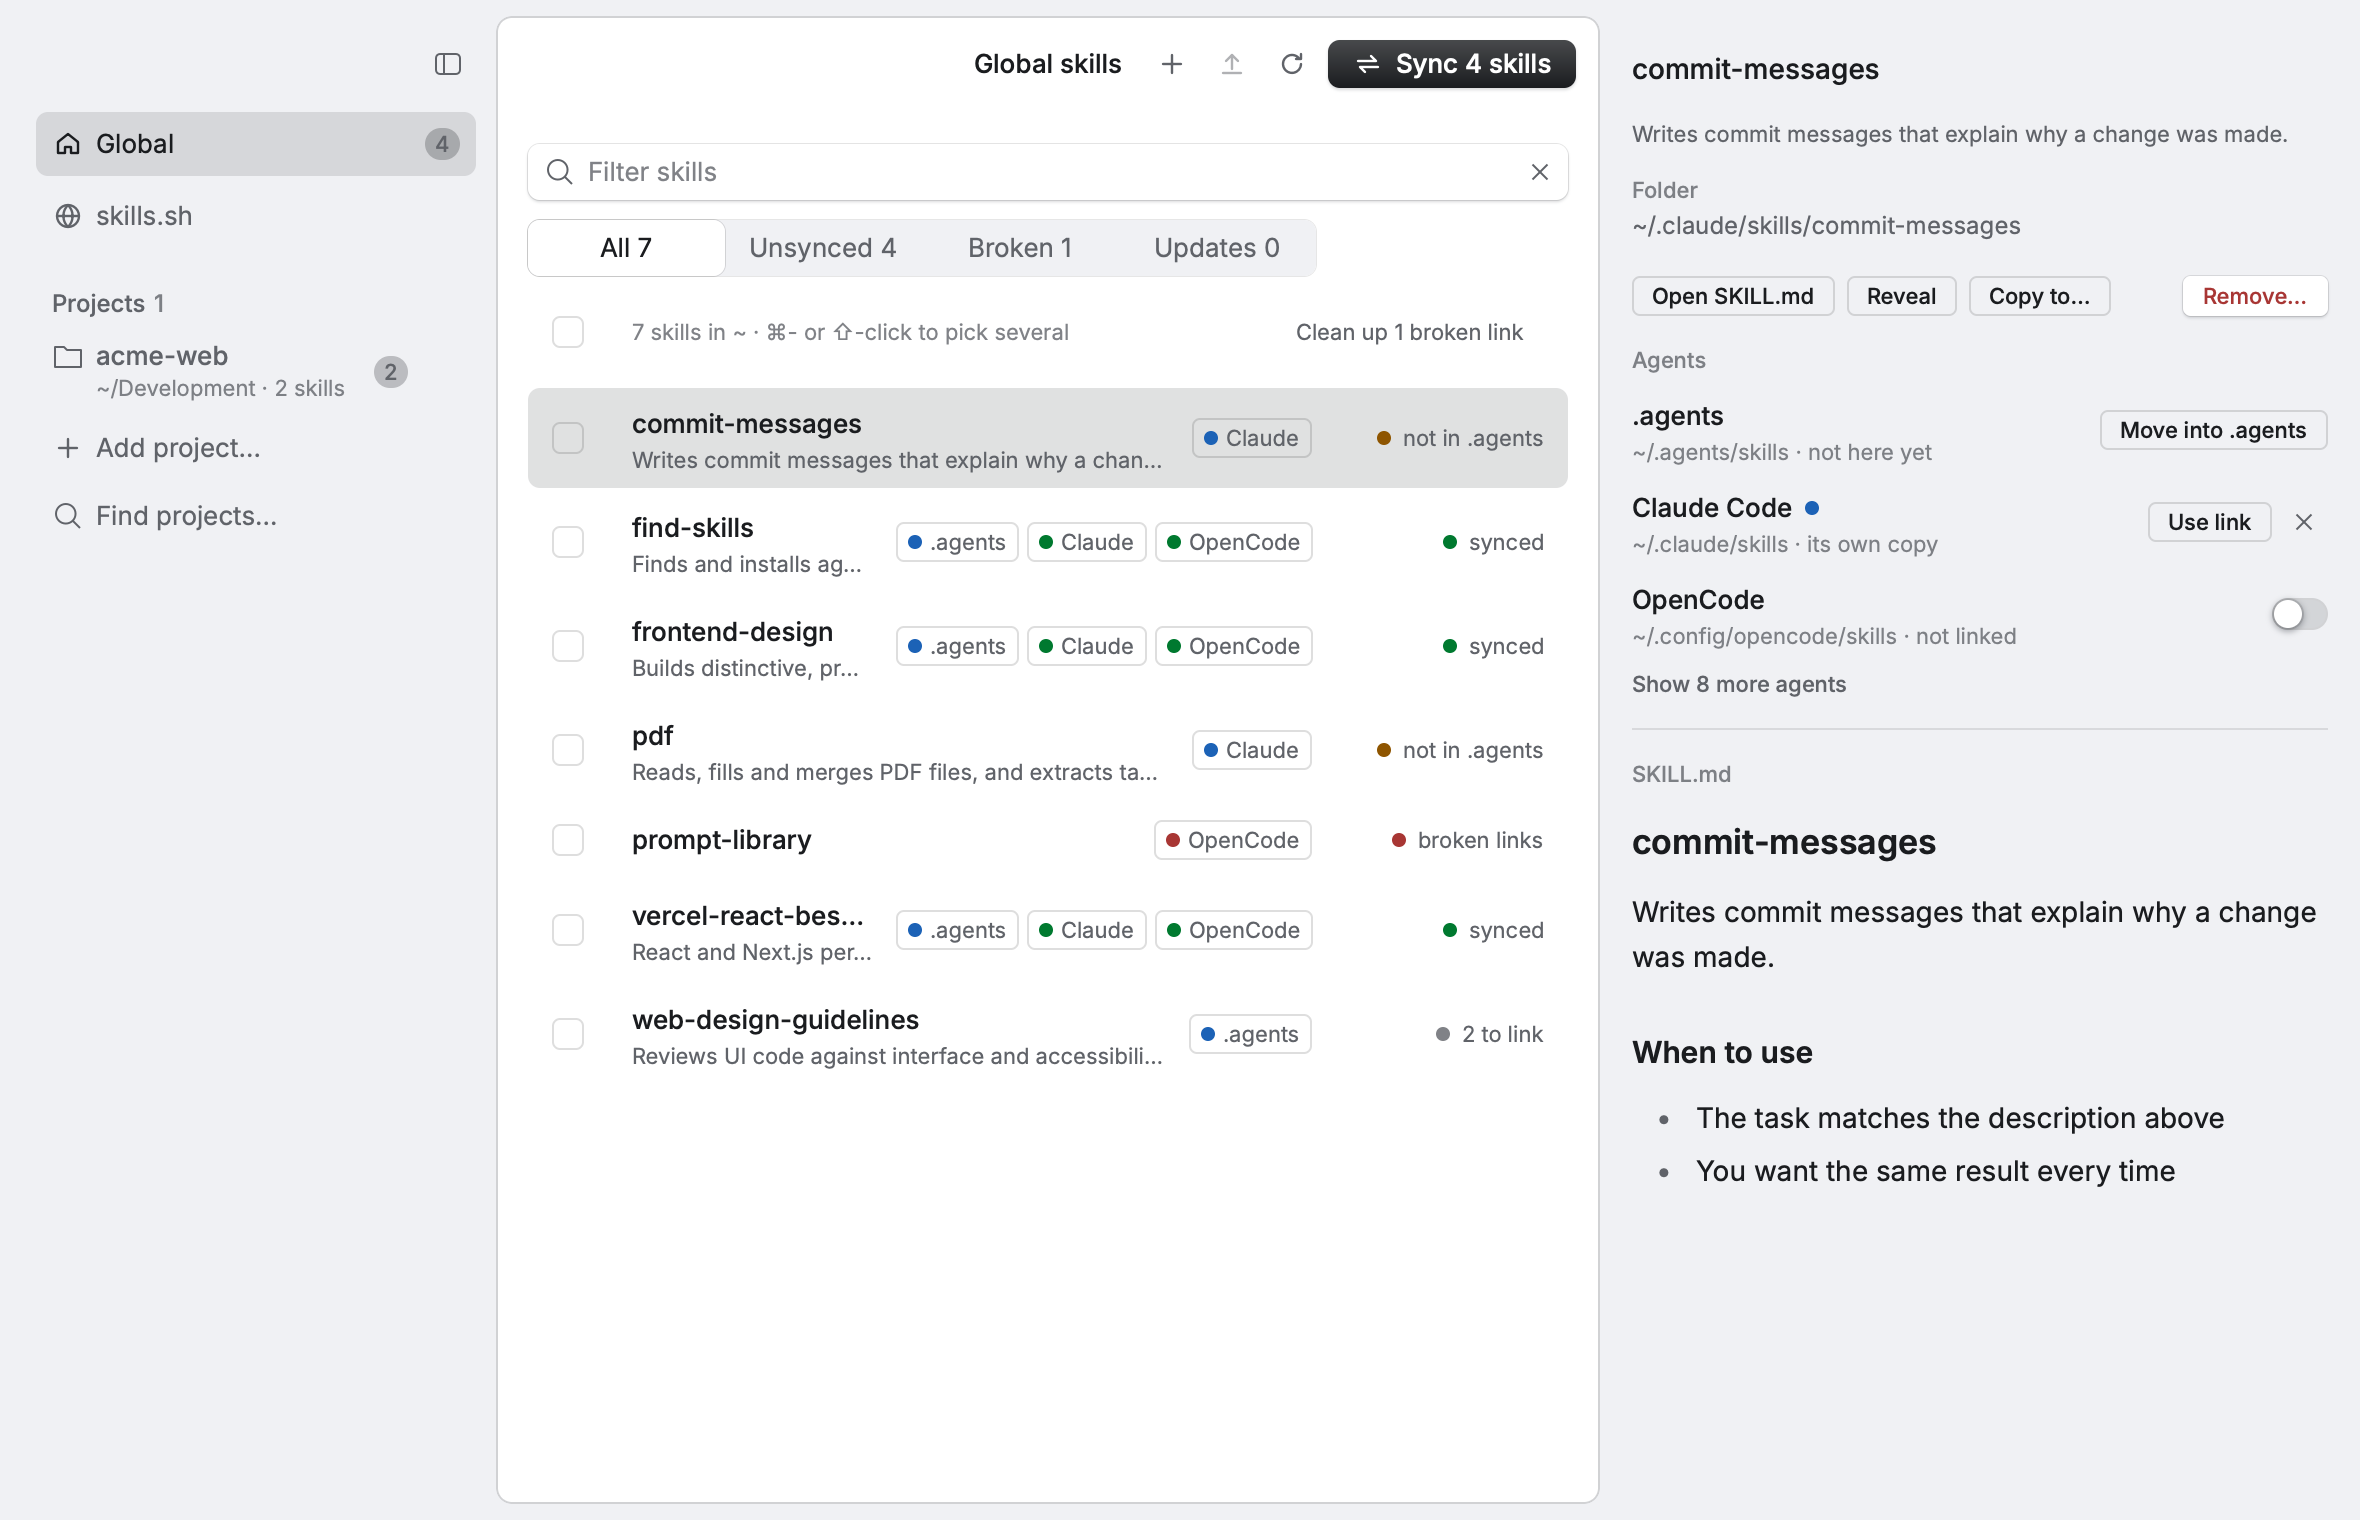
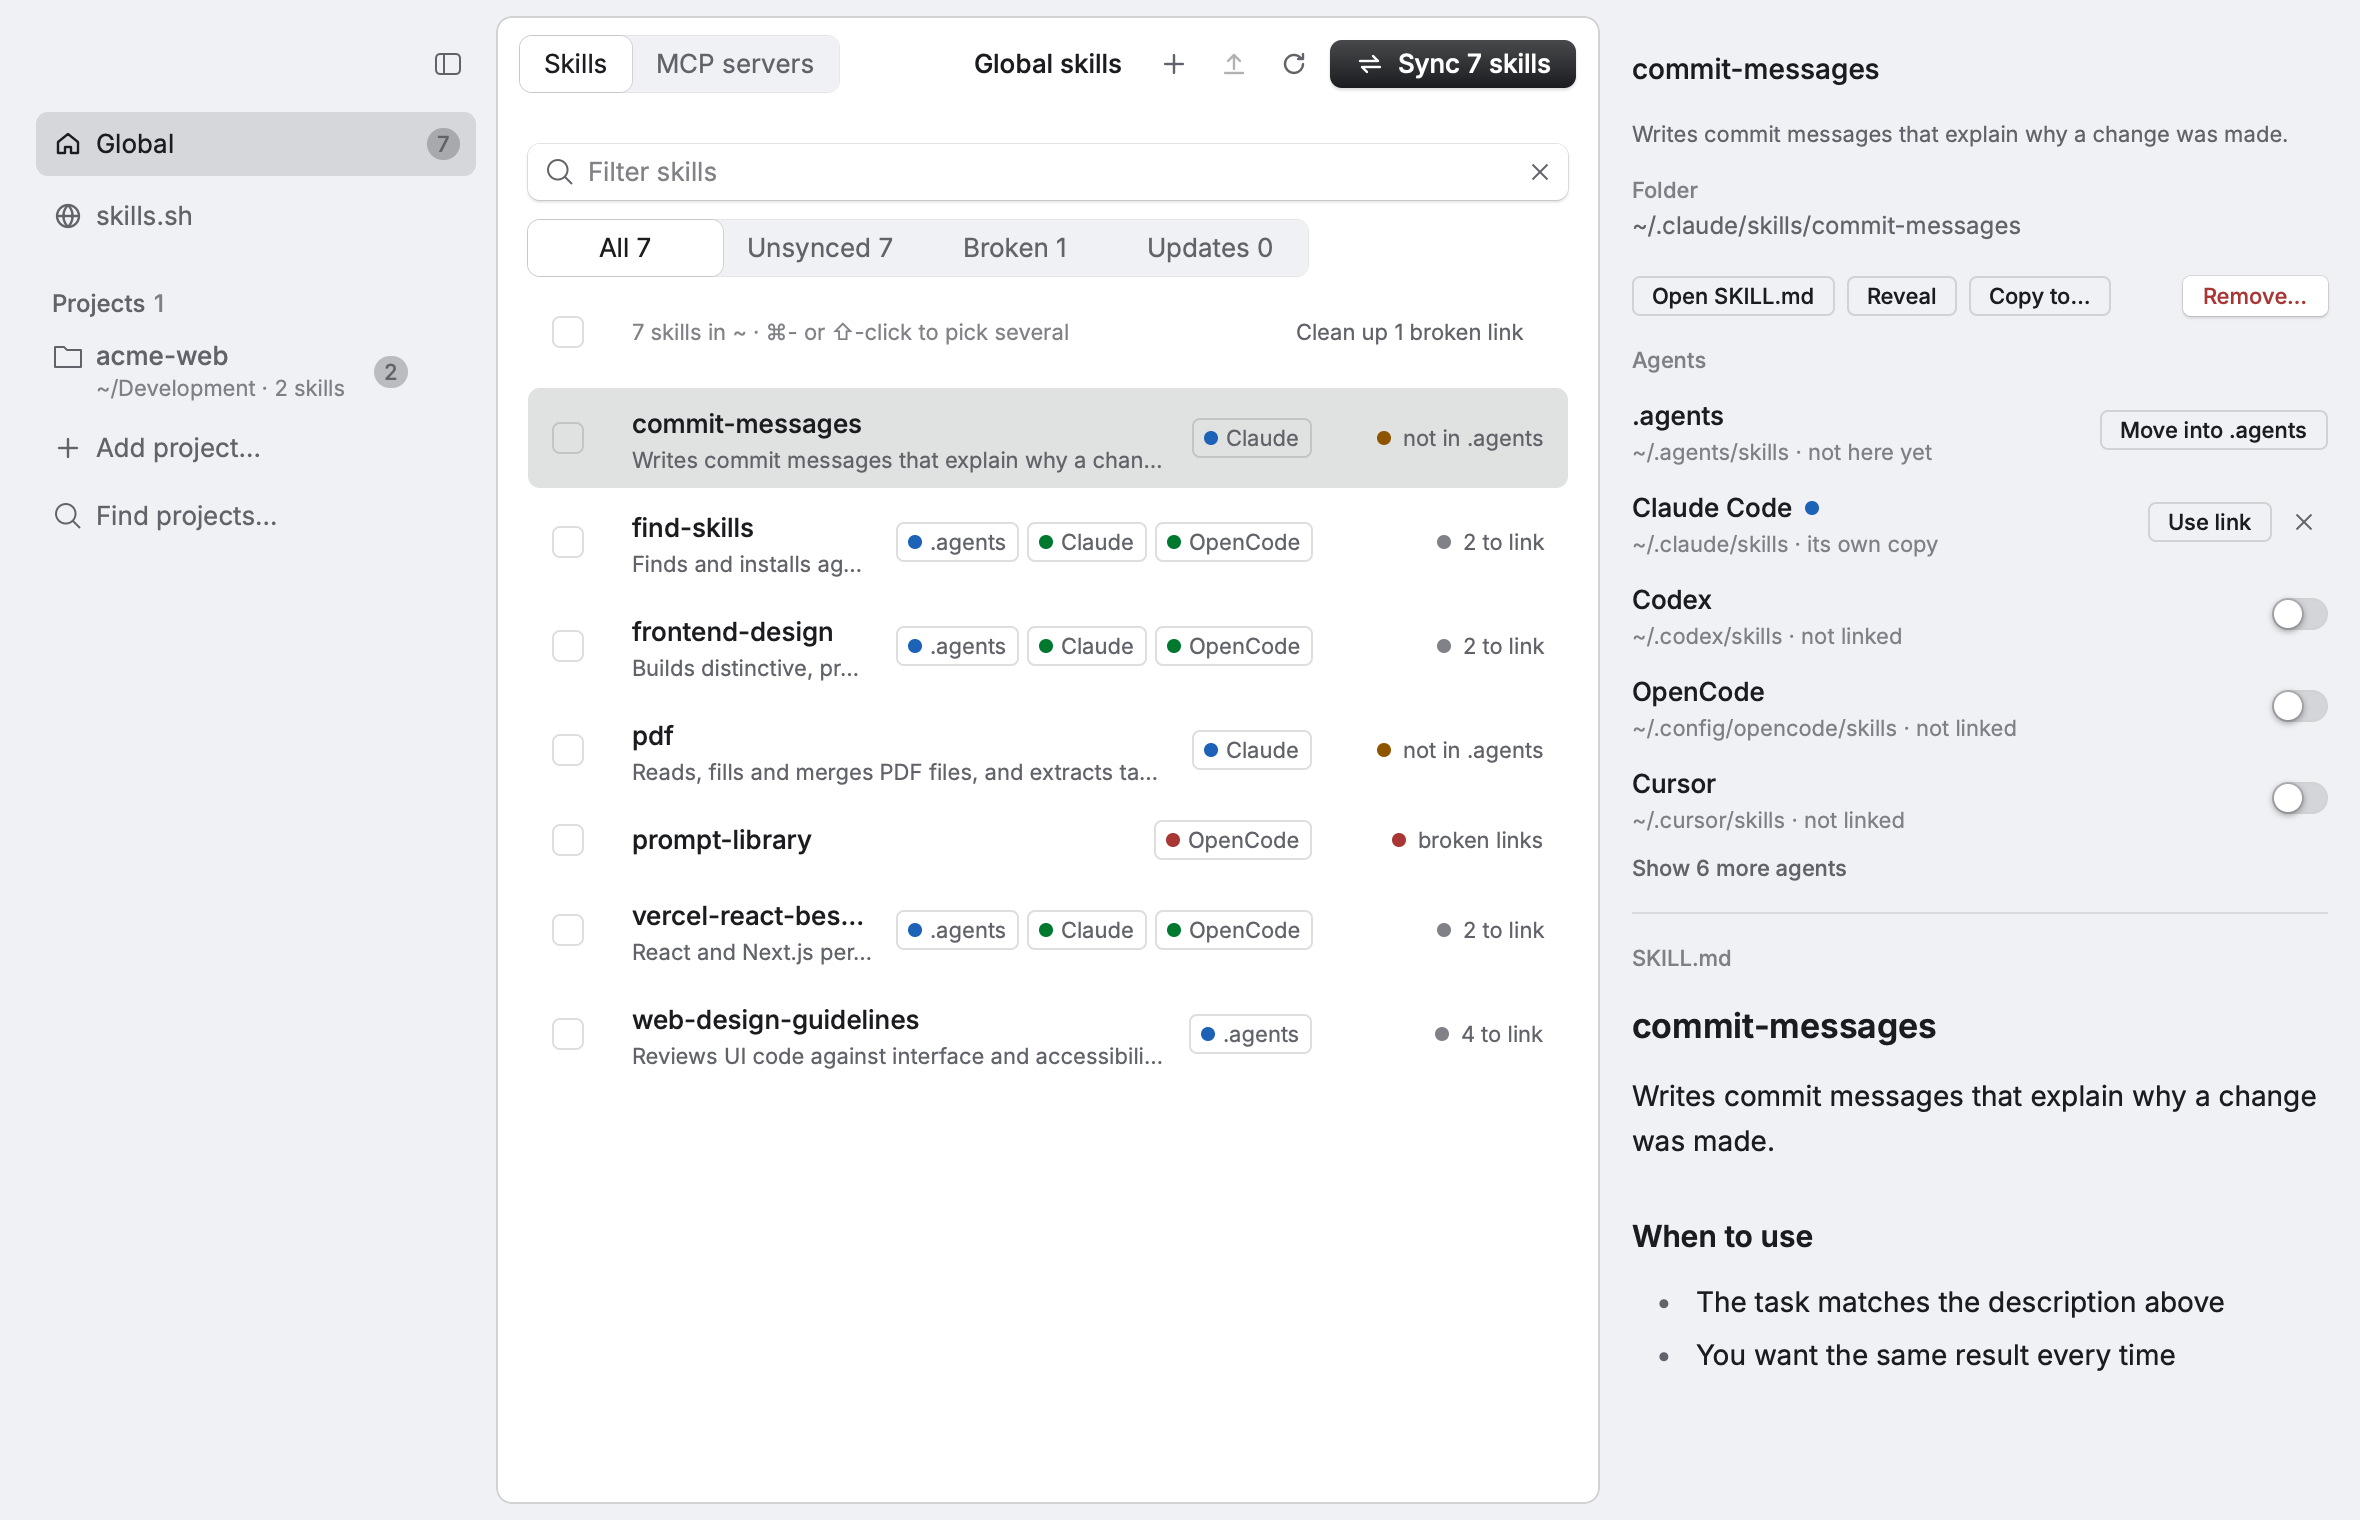
docs: command line and MCP servers in the README, demo home with MCP configs, fresh screenshots

diff --git a/README.md b/README.md
@@ -42,6 +42,7 @@ Prism keeps **one real copy** of each skill in `.agents/skills`, the same place 
   - folders that differ are skipped, never overwritten.
 - **Install from skills.sh.** Search the index, preview `SKILL.md`, list every skill in a repository and pick the ones you want. Installs and updates run through the official `skills` CLI.
 - **Updates.** Prism checks your skills against their sources in the background and updates one, several, or all of them.
+- **MCP servers.** One list of the MCP servers in Claude Code, Claude Desktop, Codex, Cursor, OpenCode, Gemini CLI, Windsurf and Kiro, with the agents that have each one. Prism shows where copies differ, suggests merging servers that are one under two names, and adds, copies, edits or removes a server in several agents' configs at once, leaving the rest of each file as it was. Env and header values stay hidden until you reveal them.
 - **Projects.** Add project folders one by one, or let *Find projects* scan a folder for projects that already have skills. Skills move between scopes with *Copy to*.
 - **Safe by default.** Nothing is deleted outright: replaced folders go to the Trash (the freedesktop trash on Linux, so your file manager can put them back). The last change (a sync, remove, cleanup or copy) can be undone with ⌘Z.
 - **Live.** Prism watches the skill folders, so changes from the terminal, an editor or git show up on their own.
@@ -55,6 +56,12 @@ Prism keeps **one real copy** of each skill in `.agents/skills`, the same place 
   <tr>
     <td align="center">Every sync shows its plan first</td>
     <td align="center">Search and install from skills.sh</td>
+  </tr>
+  <tr>
+    <td colspan="2"><img src="docs/mcp.png" alt="MCP servers in Claude Code, Cursor and Codex, one with copies that differ"></td>
+  </tr>
+  <tr>
+    <td colspan="2" align="center">MCP servers across agents, with the differences between copies</td>
   </tr>
 </table>
 
@@ -120,6 +127,37 @@ To run it straight from the terminal, optionally opening a project:
 cargo run --release -- ~/path/to/project
 ```
 
+## Command line
+
+The app is also a command line tool, for you and for your agents. On macOS, choose **Install Command Line Tool…** in the app menu, or run the binary inside the app once:
+
+```bash
+/Applications/Prism.app/Contents/MacOS/prism setup
+```
+
+`prism setup` links `prism` into `~/.local/bin` (or `/usr/local/bin`) and installs the `prism` skill, which tells Claude Code, Codex and the rest how to use it. On Linux the installer already put `prism` on your `PATH`; `setup` checks that and installs the skill.
+
+```bash
+prism skills list                         # every skill and the agents that have it
+prism mcp list                            # every MCP server, with drift and merge hints
+prism doctor --all                        # broken links, invalid skills, servers that differ
+prism mcp add github --command npx --arg -y --arg @modelcontextprotocol/server-github \
+  --env GITHUB_TOKEN=@token.txt --to claude cursor codex
+```
+
+Commands that change or remove something print their plan first and act only with `--apply`. Pass the plan's id back, and Prism stops if anything changed in between:
+
+```bash
+prism skills sync
+# Plan 3f9c2a1b7d40:
+#   - Link pdf into Codex
+# Run again with --apply --plan-id 3f9c2a1b7d40 to do it.
+prism skills sync --apply --plan-id 3f9c2a1b7d40
+prism undo                                # takes back the last change, from here or the app
+```
+
+Add `--json` to any command for output a script or an agent can read. Secrets print as `***` unless you ask for `--show-secrets`; pass them in with `KEY=@file` or `KEY=-` (stdin) to keep them out of your shell history.
+
 ## Keyboard
 
 On Linux, ⌘ is Ctrl.
@@ -152,7 +190,7 @@ Any screen renders without a window, which is handy for checking layout:
 ./target/debug/prism --snap out.png --scene sync --theme dark
 ```
 
-Scenes: `detail`, `sync`, `remove`, `bulk`, `bulk-remove`, `updates`, `copy`, `new-skill`, `browse`, `repo`, `notice`.
+Scenes: `detail`, `sync`, `remove`, `bulk`, `bulk-remove`, `updates`, `copy`, `new-skill`, `browse`, `repo`, `notice`, `mcp`, `mcp-add`, `mcp-copy`.
 
 | Path | What it does |
 | --- | --- |
@@ -161,6 +199,8 @@ Scenes: `detail`, `sync`, `remove`, `bulk`, `bulk-remove`, `updates`, `copy`, `n
 | `src/sync.rs` | sync plans, linking, removing, copying, broken links |
 | `src/fsops.rs` | the change journal behind undo, and the Trash |
 | `src/remote.rs` | skills.sh search, previews from GitHub, the `skills` CLI |
+| `src/mcp/` | MCP servers: each agent's config format, scans, plans and edits |
+| `src/cli/` | the `prism` command line and `prism setup` |
 | `src/app/` | app state and actions |
 | `src/ui/` | the screens, built with rune-kit |
 
